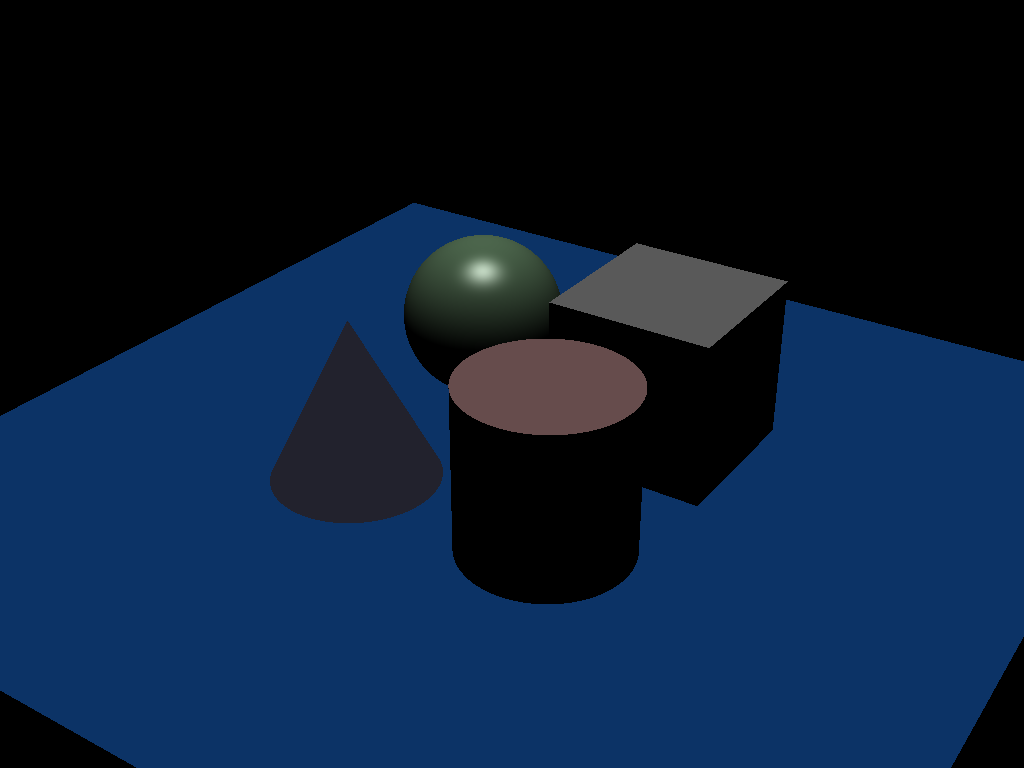
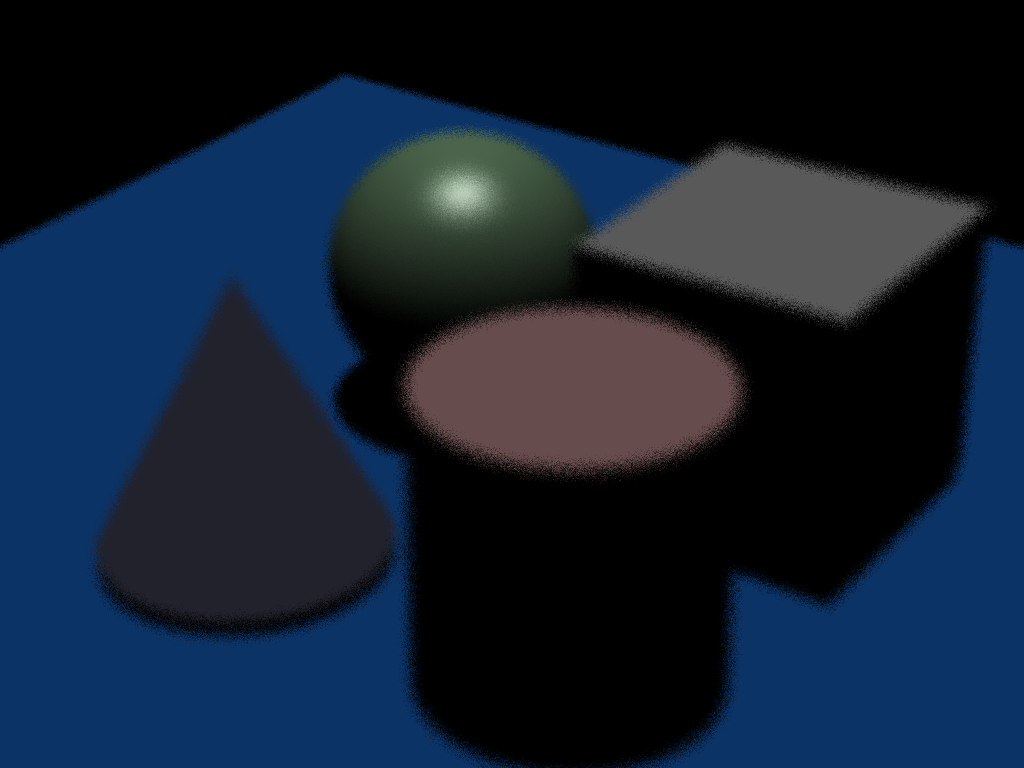
playing around with hard coded values

diff --git a/src/raytracer/raytracer.cpp b/src/raytracer/raytracer.cpp
@@ -224,9 +224,9 @@ void RayTracer::DOF(RGBA *imageData, const RayTraceScene &scene){
 
 
 
-            if ( j == 400 && i == 550) {
-                doPrint = true;
-            }
+//            if ( j == 400 && i == 550) {
+//                doPrint = true;
+//            }
 
             RayTraceScene scene1 = scene;
 

diff --git a/src/raytracer/raytracer.h b/src/raytracer/raytracer.h
@@ -14,7 +14,7 @@ class RayTraceScene;
 class RayTracer
 {
 public:
-    float focalLength = 10.f;
+    float focalLength = 12.f;
     float apperture = 0.1f;
     bool dofEnable = true;
     int sample = 6;
